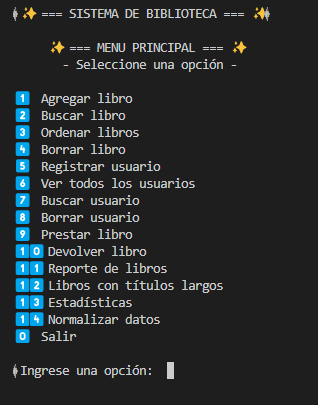
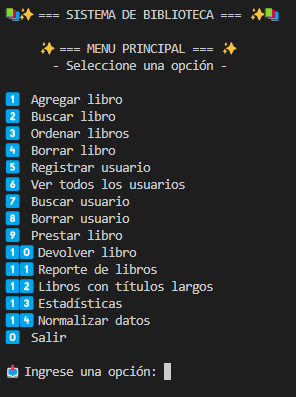
Actualización tras merge con main y correcciones

diff --git a/09-menu.js b/09-menu.js
@@ -9,7 +9,6 @@ const prompt = require("prompt-sync")();
 // const prestamos = require('./prestamos.js');
 
 const {
-  solicitarTextoValido,
   impresionTablaUsuario,
   impresionTablaLibro,
   solicitarTextoValido
@@ -82,7 +81,7 @@ function menuPrincipal() {
 1⃣ 4⃣  Normalizar datos
 0⃣   Salir
 
-📥Ingrese una opción: `);
+📥 Ingrese una opción: `);
 
     const opcion = parseInt(entrada);
 

diff --git a/00-funciones_auxiliares.js b/00-funciones_auxiliares.js
@@ -1,8 +1,6 @@
 // archivo con funciones que pueden ser reutilizada a lo largo del código
 const prompt = require("prompt-sync")();
 
-//validar prompt 
-const prompt = require("prompt-sync")();
 
 function solicitarTextoValido(mensaje) {
   let texto = prompt(mensaje);

diff --git a/README.md b/README.md
@@ -152,11 +152,16 @@ node 09-menu.js
 
 ## 🧑💻 Autoras
 
-- BORGOGNO, Antonela  [![LinkedIn](https://cdn-icons-png.flaticon.com/24/174/174857.png)](https://www.linkedin.com/in/antonela-borgogno/)  [![GitHub](https://cdn-icons-png.flaticon.com/24/733/733553.png)](https://github.com/Antonela89)
+- **BORGOGNO, Antonela**
 
-- MARTINEZ, Gabriela  [![LinkedIn](https://cdn-icons-png.flaticon.com/24/174/174857.png)](https://www.linkedin.com/in/magamahe/)  [![GitHub](https://cdn-icons-png.flaticon.com/24/733/733553.png)](https://github.com/magamahe)
+  [![LinkedIn](https://cdn-icons-png.flaticon.com/24/174/174857.png)](https://www.linkedin.com/in/antonela-borgogno/)  
+  [![GitHub](https://cdn-icons-png.flaticon.com/24/733/733553.png)](https://github.com/Antonela89)
 
----
+- **MARTINEZ, Gabriela**
+
+  [![LinkedIn](https://cdn-icons-png.flaticon.com/24/174/174857.png)](https://www.linkedin.com/in/magamahe/)  
+  [![GitHub](https://cdn-icons-png.flaticon.com/24/733/733553.png)](https://github.com/magamahe)
+
 
 ## 📄 Licencia
 <p align="center">
